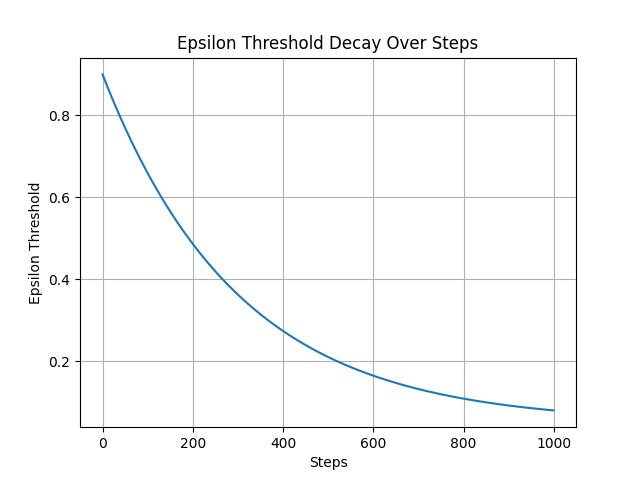
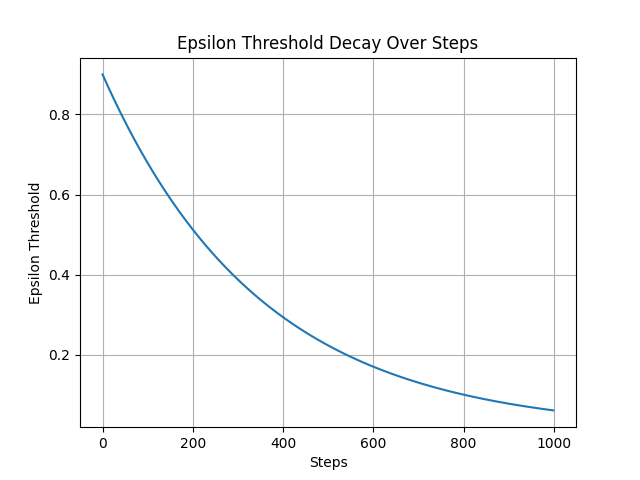
Play around wit the hyperparameters

Changed region(s): [[0.0625, 0.1562, 0.9062, 0.875], [0.0625, 0.7188, 0.125, 0.7812]]

diff --git a/agent_code/baby_terminator/callbacks.py b/agent_code/baby_terminator/callbacks.py
@@ -70,8 +70,8 @@ def act(self, game_state: dict) -> str:
     if self.train:
         # Use epsilon greedy strategy to determine whether to exploit or explore
         EPS_START = 0.9
-        EPS_END = 0.05
-        EPS_DECAY = 300
+        EPS_END = 0.01
+        EPS_DECAY = 500
         sample = random.random()
         # let the exploration decay 
         eps_threshold = EPS_END + (EPS_START - EPS_END) * math.exp(-1. * self.steps_done / EPS_DECAY)

diff --git a/agent_code/baby_terminator/train.py b/agent_code/baby_terminator/train.py
@@ -142,9 +142,9 @@ def optimize_model(self):
     """
     self.logger.info("Optimizing model")
     # Adapt the hyper parameters
-    BATCH_SIZE = 16
+    BATCH_SIZE = 128
     GAMMA = 0.999
-    UPDATE_FREQUENCY = 20
+    UPDATE_FREQUENCY = 100
     if len(self.memory) < BATCH_SIZE:
         # if the memory does not contain enough information (< BATCH_SIZE) than do not learn
         return

diff --git a/threshold.py b/threshold.py
@@ -2,8 +2,8 @@ import math
 import matplotlib.pyplot as plt
 
 EPS_START = 0.9
-EPS_END = 0.05
-EPS_DECAY = 300
+EPS_END = 0.01
+EPS_DECAY = 350
 steps_done = 0
 eps_threshold_values = []
 
